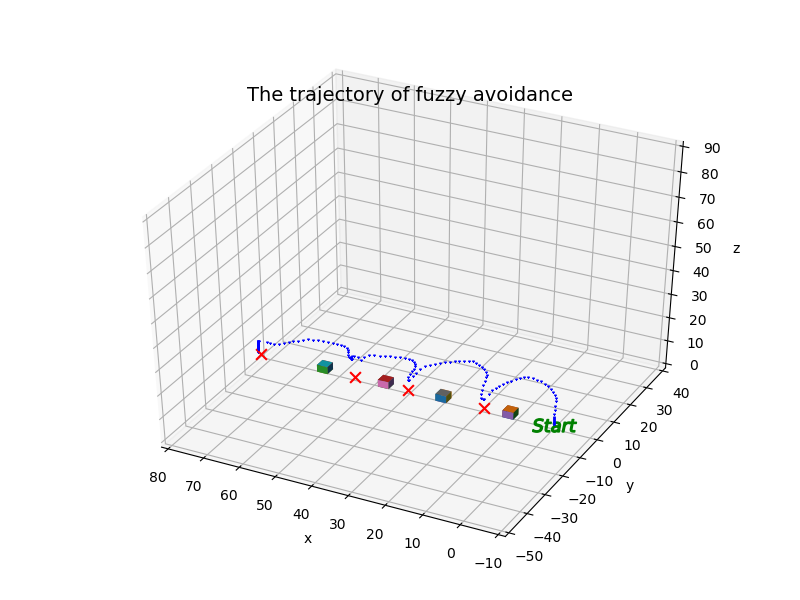
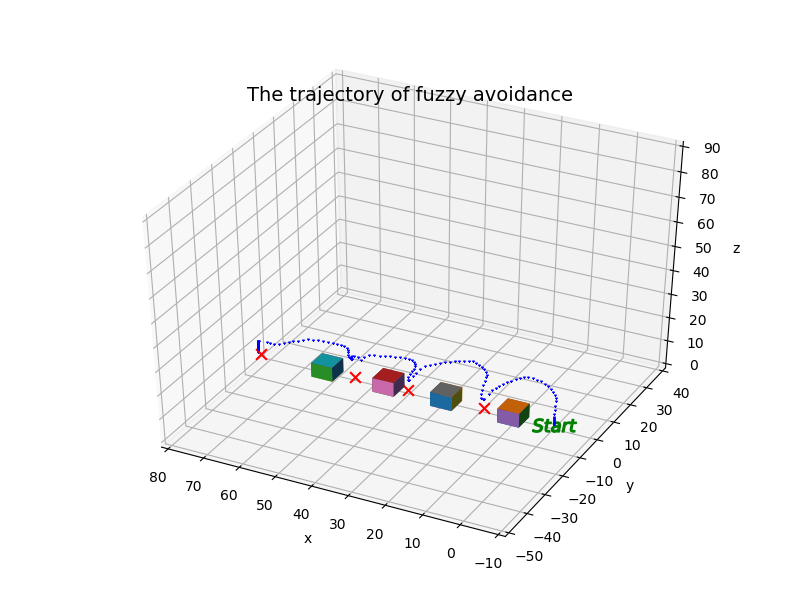
debug plot fuzzy trajectory

Changed region(s): [[0.4688, 0.6, 0.5938, 0.69], [0.375, 0.57, 0.4375, 0.63], [0.625, 0.66, 0.6875, 0.72]]

diff --git a/airsim/ForAirSim/plot_path_A.py b/airsim/ForAirSim/plot_path_A.py
@@ -70,6 +70,7 @@ def get_path_data_from_txt(path):
         sys.exit(1)  
         
 if __name__ == '__main__':
+    l = 15
     data_dir = 'Data_A'
     os.makedirs(data_dir, exist_ok=True)
     ob = get_object_position_from_txt('record_position/object_A.txt')    
@@ -83,7 +84,7 @@ if __name__ == '__main__':
     ax1.set_ylabel('y')
     ax1.set_zlabel('z')
     #plot_linear_cube(ax1,ob[0][0], ob[0][1], ob[0][2], 7.5, 7.5, 7.5)
-    plot_opaque_cube(ax1,ob[0][0], ob[0][1], ob[0][2], 7.5, 7.5, 7.5)    
+    plot_opaque_cube(ax1,ob[0][0]-l/2, ob[0][1]-l/2, ob[0][2], l, l, l)  #15*15*15  
     ax1.scatter(wp[0,0], wp[0,1], -0.5, c='g', marker="$Start$", s= 1000) # marker>> https://matplotlib.org/3.1.1/api/markers_api.html#module-matplotlib.markers
     ax1.scatter(wp[-1,0], wp[-1,1], -0.5, c='r', marker="x", s= 80)
     ax1.set_xlim(-10, 80)

diff --git a/airsim/ForAirSim/plot_path_G.py b/airsim/ForAirSim/plot_path_G.py
@@ -70,6 +70,7 @@ def get_path_data_from_txt(path):
         sys.exit(1)  
         
 if __name__ == '__main__':
+    l = 15
     data_dir = 'Data_G'
     os.makedirs(data_dir, exist_ok=True)
     ob = get_object_position_from_txt('record_position/object_G.txt')    
@@ -84,7 +85,7 @@ if __name__ == '__main__':
     ax1.set_ylabel('y')
     ax1.set_zlabel('z')    
     for i in range(len(ob)):
-        plot_opaque_cube(ax1,ob[i][0], ob[i][1], ob[i][2], 7.5, 7.5, 7.5)  # 15*15*15 cube      
+        plot_opaque_cube(ax1,ob[i][0]-l/2, ob[i][1]-l/2, ob[i][2], l, l, l)  # 15*15*15 cube      
 
     ax1.scatter(trajectory[0,0], trajectory[0,1], 0, c='g', marker="$Start$", s= 1000) # marker>> https://matplotlib.org/3.1.1/api/markers_api.html#module-matplotlib.markers
     for i in range(len(wp)):

diff --git a/airsim/ForAirSim/plot_path_B.py b/airsim/ForAirSim/plot_path_B.py
@@ -70,6 +70,7 @@ def get_path_data_from_txt(path):
         sys.exit(1)  
         
 if __name__ == '__main__':
+    l = 10
     data_dir = 'Data_B'
     os.makedirs(data_dir, exist_ok=True)
     ob = get_object_position_from_txt('record_position/object_B.txt')    
@@ -83,7 +84,7 @@ if __name__ == '__main__':
     ax1.set_ylabel('y')
     ax1.set_zlabel('z')    
     for i in range(len(ob)):
-        plot_opaque_cube(ax1,ob[i][0], ob[i][1], ob[i][2], 5, 5, 5)  # 10*10*10 cube      
+        plot_opaque_cube(ax1,ob[i][0]-l/2, ob[i][1]-l/2, ob[i][2], l, l, l)  # 10*10*10 cube      
 
     ax1.scatter(trajectory[0,0], trajectory[0,1], 0, c='g', marker="$Start$", s= 1000) # marker>> https://matplotlib.org/3.1.1/api/markers_api.html#module-matplotlib.markers
     for i in range(len(wp)):

diff --git a/airsim/ForAirSim/plot_path_F.py b/airsim/ForAirSim/plot_path_F.py
@@ -70,6 +70,7 @@ def get_path_data_from_txt(path):
         sys.exit(1)  
         
 if __name__ == '__main__':
+    l = 6
     data_dir = 'Data_F'
     os.makedirs(data_dir, exist_ok=True)
     ob = get_object_position_from_txt('record_position/object_F.txt')    
@@ -84,7 +85,7 @@ if __name__ == '__main__':
     ax1.set_ylabel('y')
     ax1.set_zlabel('z')    
     for i in range(len(ob)):
-        plot_opaque_cube(ax1,ob[i][0], ob[i][1], ob[i][2], 3, 3, 3)  # 6*6*6 cube      
+        plot_opaque_cube(ax1,ob[i][0]-l/2, ob[i][1]-l/2, ob[i][2], l, l, l)  # 6*6*6 cube      
 
     ax1.scatter(trajectory[0,0], trajectory[0,1], 0, c='g', marker="$Start$", s= 1000) # marker>> https://matplotlib.org/3.1.1/api/markers_api.html#module-matplotlib.markers
     for i in range(len(wp)):

diff --git a/airsim/ForAirSim/gif.py b/airsim/ForAirSim/gif.py
@@ -2,13 +2,13 @@
 import os
 import imageio
 
-dirName1 = 'Data_G/'
+dirName1 = 'Data_A/'
 
 dirs = os.listdir(dirName1) #--- change dirName 1 ,2
 dirs.sort(key=lambda x:int(x[:-4]))
 frames = []
 
-gif_name1 = 'Data_gif_G.gif'
+gif_name1 = 'Data_gif_A.gif'
 
 for file in dirs:    
     frames.append(imageio.imread(dirName1 + file)) #-- change dirName 1,2
